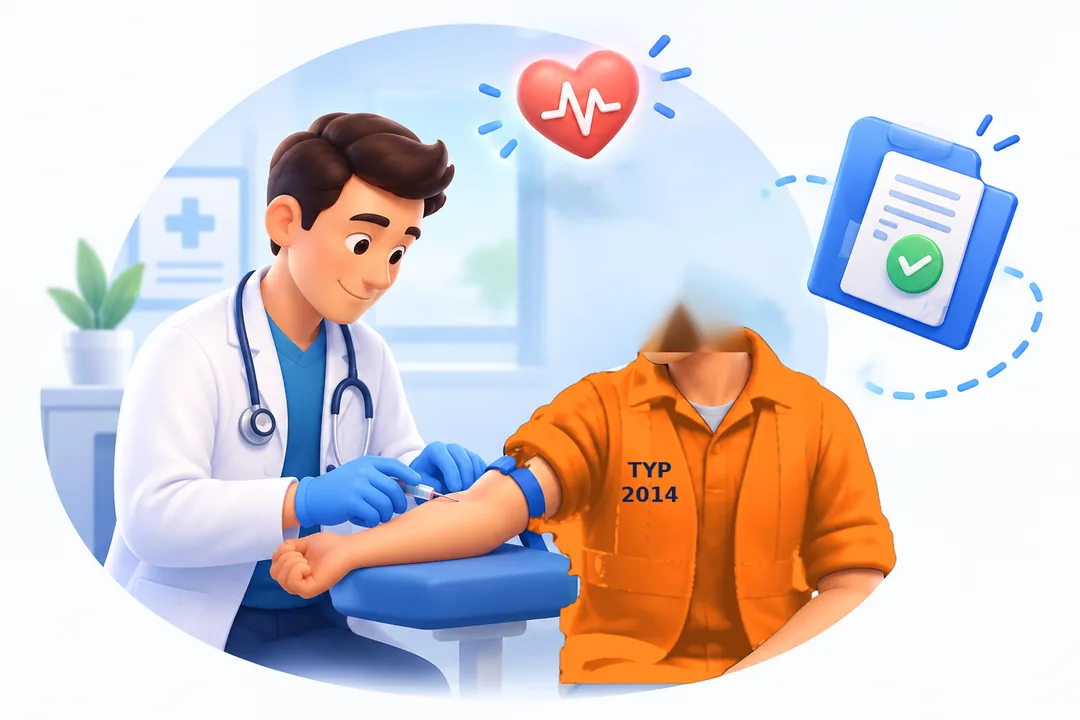
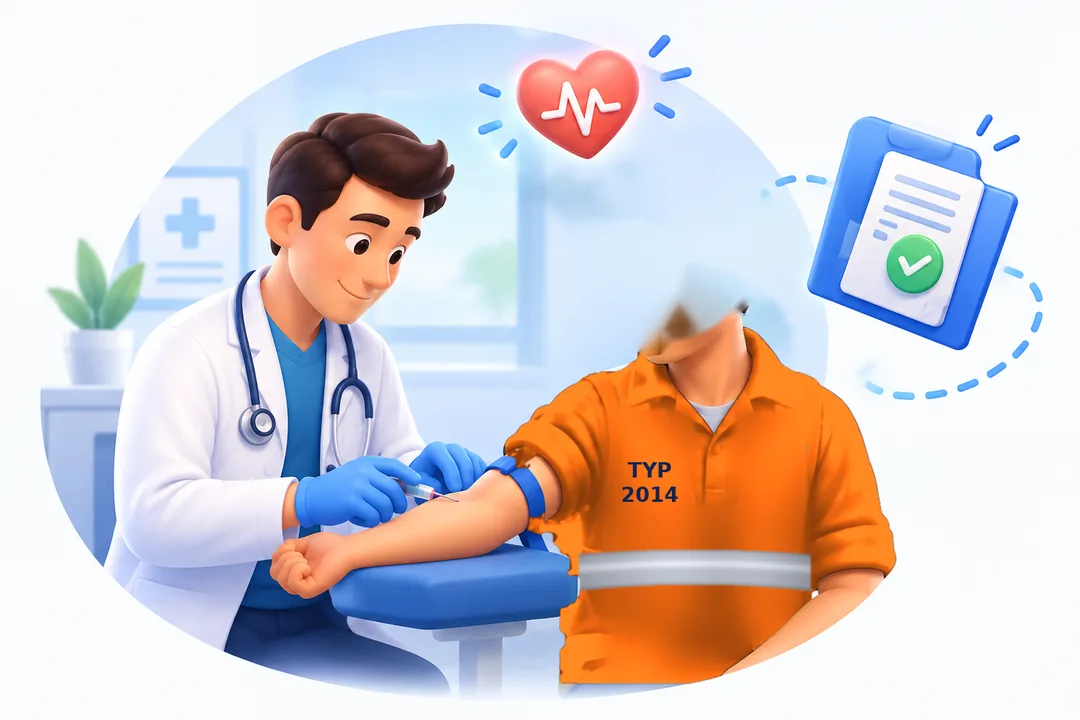
Add files via upload

diff --git a/index.html b/index.html
@@ -1,6 +1,7 @@
 <!DOCTYPE html>
 <html lang="es">
 <head>
+<!-- v683 (21/09/2026): RECONOCIMIENTOS MEDICOS - EL CUELLO YA NO SE ENCOGE AL GIRAR Y LA ROPA ES UN POLO (solo aspecto). Sobre la v682 subida. JC: "cuando gira, el cuello se encoge y se expande, como si se lo partiese, se ve irreal" y "la ropa esta bien en naranja, pero es solo un polo de manga larga, no un chalequillo con un polo debajo; solo la franja de la cintura en color plata". AHORA: (1) la capa de la cabeza (recmed_cabeza.webp) se corta siguiendo la linea de la MANDIBULA: solo gira la cara; el cuello se queda en el fondo (recmed_escena.webp) y no se deforma; detras de la mandibula el fondo lleva piel de cuello para que al girar se vea cuello y no un hueco; el desplazamiento lateral del giro se reduce a la mitad; (2) en recmed_escena.webp el tronco se alisa: desaparecen los paneles, aberturas y costuras del chaleco y queda un polo naranja liso de manga larga (cuello y tapeta con botones se conservan) con UNA franja reflectante PLATA en la cintura, de lado a lado; "TYP / 2014" se queda en el pecho. Ciclo de 5 s igual. NO cambia nada de como funciona la caja, ni tablas, ni BD. app.js NO cambia (solo su cache a ?v=683). Sube index.html + styles.css + recmed_escena.webp + recmed_cabeza.webp (las dos imagenes REEMPLAZAN a las de la v682). styles.css?v=60. -->
 <!-- v682 (21/09/2026): RECONOCIMIENTOS MEDICOS - LA CARA GIRA DICIENDO "NO" Y EL TRABAJADOR LLEVA EL POLO NARANJA DE LA EMPRESA (solo aspecto). Sobre la v681 subida. JC al verla: "parece que la cabeza va hacia adelante, como diciendo SI; la cara tiene que girar hacia la derecha y hacia la izquierda, diciendo NO"; y ropa: "todo en naranja, la camisa, todo: nosotros damos un polo naranja de alta visibilidad; quita la franja gris que baja para que quepa mejor TYP 2014". AHORA: (1) la cabeza ya no se inclina (rotate): GIRA a izquierda y derecha (perspective(500px) + rotateY ±28 grados + un pelin de desplazamiento), girando sobre el centro de la cara; el corte de la cabeza baja por debajo de la barbilla y el hueco de detras se rellena con fondo (no con piel) para que no se vea raya ni mancha al girar; (2) recmed_escena.webp: toda la ropa (polo azul marino, mangas, cuello, chaleco amarillo, franjas grises verticales y de cintura, ribete) pasa a NARANJA conservando pliegues y sombras, sin franjas; se quedan la camiseta gris del cuello y el torniquete azul; "TYP / 2014" mas grande en azul marino en el pecho. Ciclo de 5 s como en la v681. NO cambia nada de como funciona la caja, ni tablas, ni BD. app.js NO cambia (solo su cache a ?v=682). Sube index.html + styles.css + recmed_escena.webp + recmed_cabeza.webp (las dos imagenes REEMPLAZAN a las de la v681). styles.css?v=59. -->
 <!-- v681 (21/09/2026): RECONOCIMIENTOS MEDICOS - LA ESCENA SE MUEVE CADA 5 s, EL TRABAJADOR DICE "NO, NO" Y CHALECO CON FRANJA NARANJA + TYP2014 (solo aspecto). Validada la v680 (subida y comprobada en GitHub). JC: "que en vez de cada ocho segundos sea cinco", "que el trabajador mueva la cabeza como diciendo no no no, que no me pinche, como una broma", "el chaleco amarillo, que sea naranja solo la franja de la cintura, no la otra" y "que ponga TYP2014 en el pecho". AHORA: (1) ciclo de 5 s; (2) capa nueva .recCab con la cabeza recortada (fichero NUEVO recmed_cabeza.webp, con transparencia, 10 KB) que gira ±5 grados desde el cuello al principio de cada ciclo; detras, en recmed_escena.webp, el hueco esta rellenado para que no se vea una segunda cabeza; quitada la respiracion del fondo; (3) en recmed_escena.webp la franja reflectante HORIZONTAL de la cintura pasa de gris a naranja (las verticales siguen grises) y "TYP / 2014" en azul marino en el panel amarillo del pecho. Orden: cabeza al principio, luego corazon, luego carpeta y punto verde. NO cambia nada de como funciona la caja, ni tablas, ni BD. app.js NO cambia (solo su cache a ?v=681). Sube index.html + styles.css + recmed_escena.webp (REEMPLAZA) + recmed_cabeza.webp (NUEVO). styles.css?v=58. -->
 <!-- v680 (21/09/2026): RECONOCIMIENTOS MEDICOS - ILUSTRACION ANIMADA EN LA CAJA DE ARRASTRAR LA CARTA (solo aspecto). JC trajo de ChatGPT una ilustracion 3D (medico sacando sangre a un trabajador con chaleco + corazon + carpeta con visto bueno) con su animacion, y pidio ponerla "como esta el otro muñeco, ahi en medio" (como la escena de SUBIR ALBARANES de la v625). AHORA: en la caja #dzRecmed el icono SVG dibujado (bata) se sustituye por la escena .recFoto (max 420 px, centrada, esquinas redondas). Fichero NUEVO recmed_escena.webp (1080x720, 49 KB; el PNG original pesaba 1,6 MB y se le han recortado los margenes blancos). Tecnica: la MISMA imagen en 3 capas (fondo + corazon con mascara ovalada difuminada, para que no se note el recorte sobre el ovalo azul ni pise el pelo del trabajador + carpeta con clip-path) y cada ~8 s: respiracion minima de la escena, DOBLE latido del corazon, la carpeta crece un pelin y se ladea (al CRECER tapa la copia de debajo: en el original de ChatGPT subia 8 px y se veia doble), y parpadea un punto verde. Quitado de lo de ChatGPT: brillos en pixeles fijos (se descolocaban en movil) y el script.js (no hacia nada). Respeta prefers-reduced-motion. NO cambia nada de como funciona la caja (arrastrar/clic, IA, citas, avisos, WhatsApp), ni las tablas, ni la BD. app.js NO cambia (solo sube su cache a ?v=680). Sube index.html + styles.css + recmed_escena.webp. styles.css?v=57. -->
@@ -473,7 +474,7 @@ if (typeof pdfjsLib !== 'undefined') {
 <!-- v107K77 (22/06/2026): LEGIBILIDAD — el gris de textos secundarios (--mu) era demasiado oscuro y casi no se leía (ayudas, etiquetas, "Rellenar fecha rápido"...). Aclarado de #527060 a #7d9e8b en styles.css; afecta a toda la app. Reversible. Sube styles.css + index.html (app.js NO cambia). NO requiere SQL. -->
 <!-- v107K84 (23/06/2026): PARPADEO DE LA ZONA DE SOLTAR — CAUSA RAÍZ ENCONTRADA Y ARREGLADA (en el CSS, no en el JS). La zona tiene encima una capa invisible (el input de "clic para seleccionar"). Una regla apagaba esa capa justo al iluminarse la zona, lo que cambiaba el elemento bajo el cursor y hacía oscilar la iluminación → parpadeo continuo. Quitada esa regla (.dz.ov input{pointer-events:none}) en styles.css: ahora la capa se mantiene fija durante el arrastre y NO parpadea. El drop sigue bien (drop() hace preventDefault). Sube styles.css + index.html (app.js NO cambia, sigue v=177). NO requiere SQL. -->
 <!-- v304 (14/07/2026): RECAMBIOS — la IA lee ahora TAMBIÉN NUESTRO CIF (paso 1 del plan "facturas de recambios por email"). Hasta ahora la empresa de un documento de recambios NO se leía del papel: se cogía de la sub-pestaña donde se arrastra (tallerEmpresaActiva). Esto añade un campo nuevo al prompt de callClaudeRecambio ("cif_cliente" = el CIF del destinatario, NOSOTROS; distinto de proveedor_nif, que es el del emisor) y, al subir, COMPARA ese CIF con la sub-pestaña: si el CIF es de otra empresa del grupo avisa por toast y deja nota en Observaciones ("⚠ REVISAR EMPRESA: el CIF de este documento (B90172735) es de TYP2014, pero se ha subido en la pestaña de HISPALIS"); si el CIF no se pudo leer o no es de ninguna de nuestras 4 empresas, deja una nota informativa. NO cambia la empresa por su cuenta (decide Juan Carlos), NO toca la conciliación, NO toca ninguna otra pestaña. Sirve desde el día 1 para cazar facturas subidas en la empresa equivocada, y a la vez comprueba en producción si la IA lee bien el CIF en todos los proveedores — que es el requisito para poder automatizar luego la entrada por correo. Sube app.js + index.html. NO requiere SQL (la nota va en la columna observaciones, que ya existe). node --check OK. cache app.js?v=304. -->
-<link rel="stylesheet" href="styles.css?v=59">
+<link rel="stylesheet" href="styles.css?v=60">
 <!-- v302 (13/07/2026): CONFIRMING BBVA — 2 mejoras del aviso. (1) Al marcar una factura cobrada por confirming, rellena sola el campo OBSERVACIONES con "Confirming BBVA · Liquidación <cesión> · cobrado DD/MM/AAAA" (si ya había una nota, la conserva y añade la del confirming detrás; no pisa nada). (2) El aviso verde (y el ámbar de duplicado) ahora tiene un botón "✓ Visto, cerrar" que lo quita de pantalla cuando ya lo has leído (mini-función _liqCerrar). Solo toca la función de confirming; nada más cambia. Sube app.js + index.html. NO requiere SQL. cache app.js?v=302. -->
 <!-- v301 (13/07/2026): FACTURAS EMITIDAS — COBROS POR CONFIRMING BBVA. Nueva zona verde para ARRASTRAR el justificante de liquidación de BBVA (factoring). La IA lee la tabla "Detalle de los créditos" y marca COBRADAS SOLAS las facturas que casan por NÚMERO + IMPORTE (doble comprobación); fecha de cobro = fecha de liquidación (NO la "fecha pago" del deudor), forma_cobro = "Confirming BBVA". Las que NO casan (no encontrada / importe no cuadra / ambiguas) NO se tocan y se listan en rojo para revisar a mano. Candado anti-duplicados por Nº de cesión (tabla liquidaciones_confirming): si llega la misma liquidación 2 veces, no vuelve a marcar. Casa por CIF+número, así vale igual para CEMEX, Holcim o cualquier deudor por este confirming. NO toca la subida de facturas normal ni nada más. Sube app.js + index.html. REQUIERE SQL previo (columna facturas_emitidas.forma_cobro + tabla liquidaciones_confirming, ya ejecutado). cache app.js?v=301. -->
 <!-- v300 (13/07/2026): RECAMBIOS (Taller) — separación de ~5 cm entre el botón "➕ Subir albarán" (azul) y "🧾 Subir factura" (gris) para no confundirlos con las prisas (margin-left:5cm en el botón de factura). Solo espaciado; no toca nada más. Sube solo index.html (app.js NO cambia, pero al subir el ?v=300 conviene subir también app.js para que el cache-buster cuadre). NO requiere SQL. cache app.js?v=300. -->
@@ -2964,6 +2965,6 @@ if (typeof pdfjsLib !== 'undefined') {
 <!-- v514 (Juan Carlos 11/08/2026): LOS REPASOS GUARDADOS DABAN "Cannot read properties of undefined (reading 'length') AL PULSAR VER O EXCEL. Culpa de la v512: por ahorrar sitio deje fuera de lo guardado los campos que venian vacios (difs, modo, y linea/rec cuando no habia). Pero el informe hace "a.difs.length" y el Excel hace "a.linea.tn" DANDO POR HECHO que existen, asi que al abrir un repaso guardado reventaba y los botones no hacian nada. Un objeto vacio ocupa 2 bytes: no se ahorraba nada y se rompia todo. Desde la v514 lo guardado tiene SIEMPRE la misma forma que lo recien cruzado (difs siempre array, modo siempre texto, linea y rec siempre objeto). IMPORTANTE: los repasos guardados con la v512/v513 se quedaron mal por dentro; hay que volver a cruzar el mes una vez para que se guarde bien. Solo app.js + index.html. NO requiere SQL. -->
 <!-- v515 (Juan Carlos 11/08/2026): TODAS LAS FAMILIAS A LA VISTA. Las pastillas de familia iban en una fila de tabla y salia barra de desplazamiento horizontal: habia que arrastrar para ver las ultimas. Ahora cada repaso es un bloque y las pastillas se reparten en varias lineas, todas visibles de golpe; los botones VER / EXCEL COMPLETO / X tambien bajan de linea si no caben. Va junto con el arreglo de la v514 (que no llego a subirse): los repasos guardados reventaban con "Cannot read properties of undefined (reading length)" porque la v512 dejaba fuera los campos vacios y el Excel hace a.difs.length dando por hecho que existen (traza confirmada por JC: factHolcimExcelPorMaterial linea 25582). Solo app.js + index.html. NO requiere SQL. IMPORTANTE: el repaso guardado con la v512/v513 esta mal por dentro; hay que quitarlo con la X y volver a cruzar el mes una vez. -->
 <!-- v516 (Juan Carlos 11/08/2026): REPARAR AL VUELO LOS REPASOS YA GUARDADOS. La v514/v515 arreglaron como se GUARDA, pero el repaso que JC ya tenia grabado con la v512 seguia mal por dentro y seguia reventando al pulsar EXCEL: solo salia bien "Nucleo Garraf -> Puerto Barcelona", la unica familia sin abonados y por eso la unica que nunca llegaba a la linea que peta (a.difs.length). Obligar a borrarlo con la X y volver a cruzar el mes entero es un apano, no un arreglo. Ahora, al abrir o exportar, lo guardado se REPARA en memoria antes de usarse: se le devuelve la forma que espera el informe (difs array, modo texto, linea y rec objeto). Funcionan igual los repasos nuevos y los viejos, sin que el usuario tenga que hacer nada. Solo app.js + index.html. NO requiere SQL. -->
-<script src="app.js?v=682"></script>
+<script src="app.js?v=683"></script>
 </body>
 </html>

diff --git a/styles.css b/styles.css
@@ -658,15 +658,15 @@ tbody tr.row-warn:hover{background:rgba(245,166,35,.22)}
 #cardSubirAlb .dz-s{font-size:10px}
 
 /* v680: escena animada de RECONOCIMIENTOS MEDICOS en la caja #dzRecmed (ilustracion de JC hecha en ChatGPT). Misma imagen en capas: fondo + corazon (mascara ovalada con borde difuminado, para que no se vea el recorte sobre el azul) + carpeta (clip-path).
-   v681/v682: ciclo de 8 s -> 5 s; nueva capa .recCab = la CABEZA del trabajador recortada (recmed_cabeza.webp, con transparencia; en recmed_escena.webp el hueco de detras esta rellenado) que dice "no, no, no" GIRANDO la cara a derecha e izquierda (v682: perspective + rotateY; en la v681 se INCLINABA y parecia decir que si) al principio de cada ciclo, como de broma porque le van a pinchar. Quitada la "respiracion" del fondo (desplazaba el fondo respecto a la cabeza). Ropa: TODO el polo (cuerpo, mangas, cuello) y el chaleco en NARANJA, sin franjas grises, y TYP 2014 grande en el pecho (pintado en la imagen). */
+   v681/v682: ciclo de 8 s -> 5 s; nueva capa .recCab = la CABEZA del trabajador recortada (recmed_cabeza.webp, con transparencia; en recmed_escena.webp el hueco de detras esta rellenado) que dice "no, no, no" GIRANDO la cara a derecha e izquierda (v682: perspective + rotateY; en la v681 se INCLINABA y parecia decir que si. v683: la capa de la cabeza se corta por la MANDIBULA, el cuello se queda quieto en el fondo y ya no se encoge al girar) al principio de cada ciclo, como de broma porque le van a pinchar. Quitada la "respiracion" del fondo (desplazaba el fondo respecto a la cabeza). Ropa (v683): un POLO naranja de manga larga liso (sin rastro del chaleco) con una franja PLATA en la cintura, y TYP 2014 grande en el pecho (pintado en la imagen). */
 .recFoto{position:relative;width:100%;max-width:420px;aspect-ratio:3/2;margin:0 auto 12px;border-radius:14px;overflow:hidden;isolation:isolate;background:#fafcfe;box-shadow:0 6px 16px rgba(30,41,51,.14)}
-.recArt{position:absolute;inset:0;background:url('recmed_escena.webp?v682') center/cover no-repeat}
+.recArt{position:absolute;inset:0;background:url('recmed_escena.webp?v683') center/cover no-repeat}
 .recBase{z-index:1}
 .recCor{z-index:3;-webkit-mask-image:radial-gradient(ellipse 9.5% 11.5% at 52.9% 13.6%,#000 62%,transparent 100%);mask-image:radial-gradient(ellipse 9.5% 11.5% at 52.9% 13.6%,#000 62%,transparent 100%);transform-origin:52.9% 14.2%;animation:recLate 5s ease-in-out infinite}
 .recCarp{z-index:4;clip-path:inset(10.9% 3.7% 50% 73.5%);transform-origin:85.5% 31.6%;animation:recCarpeta 5s ease-in-out infinite}
-.recCab{z-index:5;background-image:url('recmed_cabeza.webp?v682');transform-origin:62.4% 38%;animation:recNo 5s ease-in-out infinite}
+.recCab{z-index:5;background-image:url('recmed_cabeza.webp?v683');transform-origin:62.4% 38%;animation:recNo 5s ease-in-out infinite}
 .recPunto{position:absolute;z-index:6;right:4%;bottom:6%;width:9px;height:9px;border-radius:50%;background:#37c979;animation:recPunto 5s ease-in-out infinite}
-@keyframes recNo{0%,5%,32%,100%{transform:perspective(500px) rotateY(0)}10%{transform:perspective(500px) translateX(-1%) rotateY(-28deg)}16%{transform:perspective(500px) translateX(1%) rotateY(28deg)}22%{transform:perspective(500px) translateX(-.9%) rotateY(-26deg)}27%{transform:perspective(500px) translateX(.5%) rotateY(14deg)}}
+@keyframes recNo{0%,5%,32%,100%{transform:perspective(500px) rotateY(0)}10%{transform:perspective(500px) translateX(-.5%) rotateY(-28deg)}16%{transform:perspective(500px) translateX(.5%) rotateY(28deg)}22%{transform:perspective(500px) translateX(-.4%) rotateY(-26deg)}27%{transform:perspective(500px) translateX(.2%) rotateY(14deg)}}
 @keyframes recLate{0%,36%,100%{transform:scale(1)}39%{transform:scale(1.09)}42%{transform:scale(1)}45%{transform:scale(1.07)}49%{transform:scale(1)}}
 @keyframes recCarpeta{0%,50%,100%{transform:scale(1) rotate(0)}55%{transform:scale(1.06) rotate(-2deg)}60%{transform:scale(1.04) rotate(1.5deg)}66%{transform:scale(1) rotate(0)}}
 @keyframes recPunto{0%,44%,100%{box-shadow:0 0 0 0 rgba(55,201,121,0)}51%{box-shadow:0 0 0 8px rgba(55,201,121,.18)}58%{box-shadow:0 0 0 0 rgba(55,201,121,0)}}
